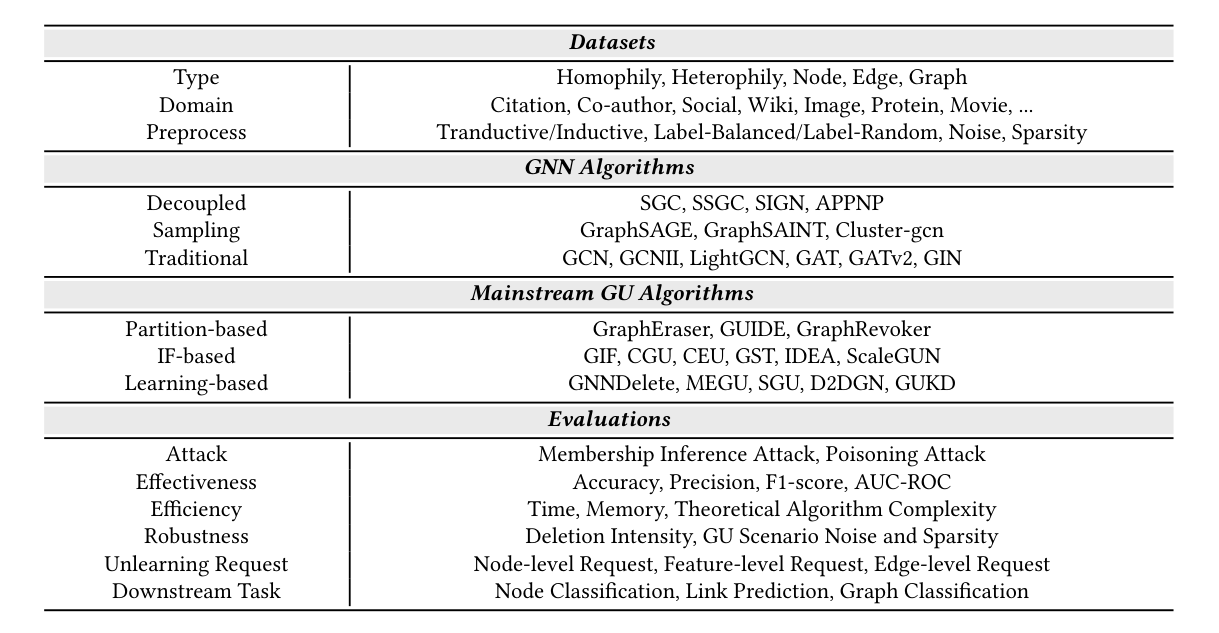
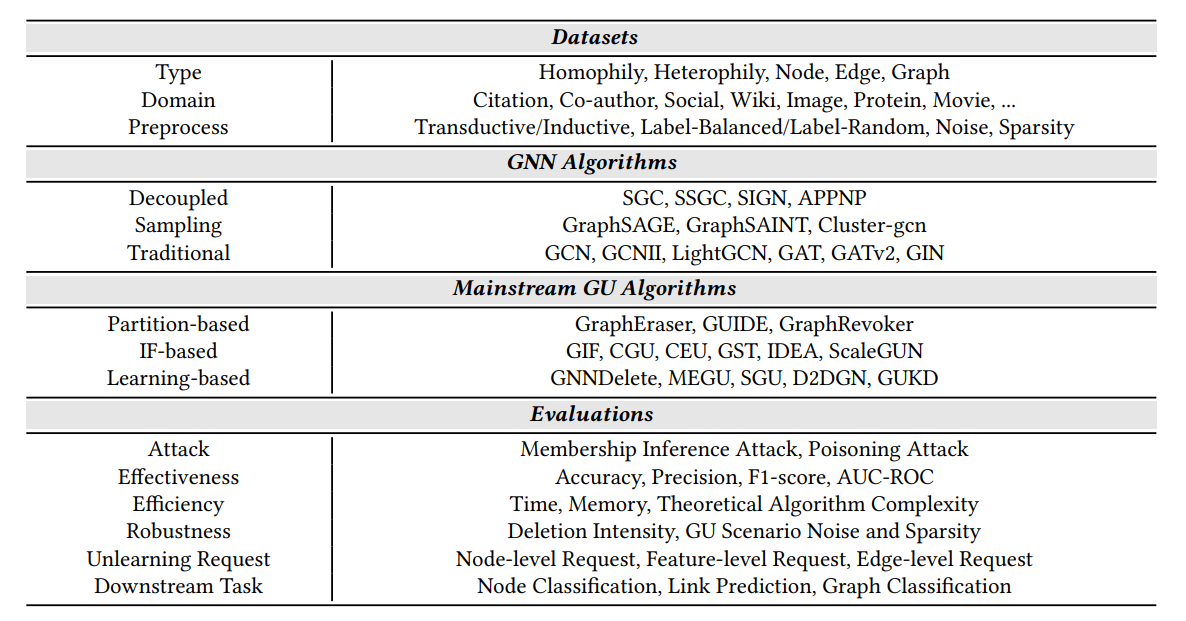
update README

Changed region(s): [[0.0, 0.0306, 0.9983, 0.9791]]

diff --git a/README.md b/README.md
@@ -368,8 +368,9 @@ If you use OpenGU in your research, please cite our paper:
 @article{fan2025opengu,
   title={OpenGU: A Comprehensive Benchmark for Graph Unlearning},
   author={Fan, Bowen and Ai, Yuming and Li, Xunkai and Guo, Zhilin and Li, Rong-Hua and Wang, Guoren},
-  journal={arXiv preprint arXiv:XXXX.XXXXX},
-  year={2025}
+  journal={arXiv preprint arXiv:2501.02728},
+  year={2025},
+  url={https://arxiv.org/abs/2501.02728}
 }
 ```
 